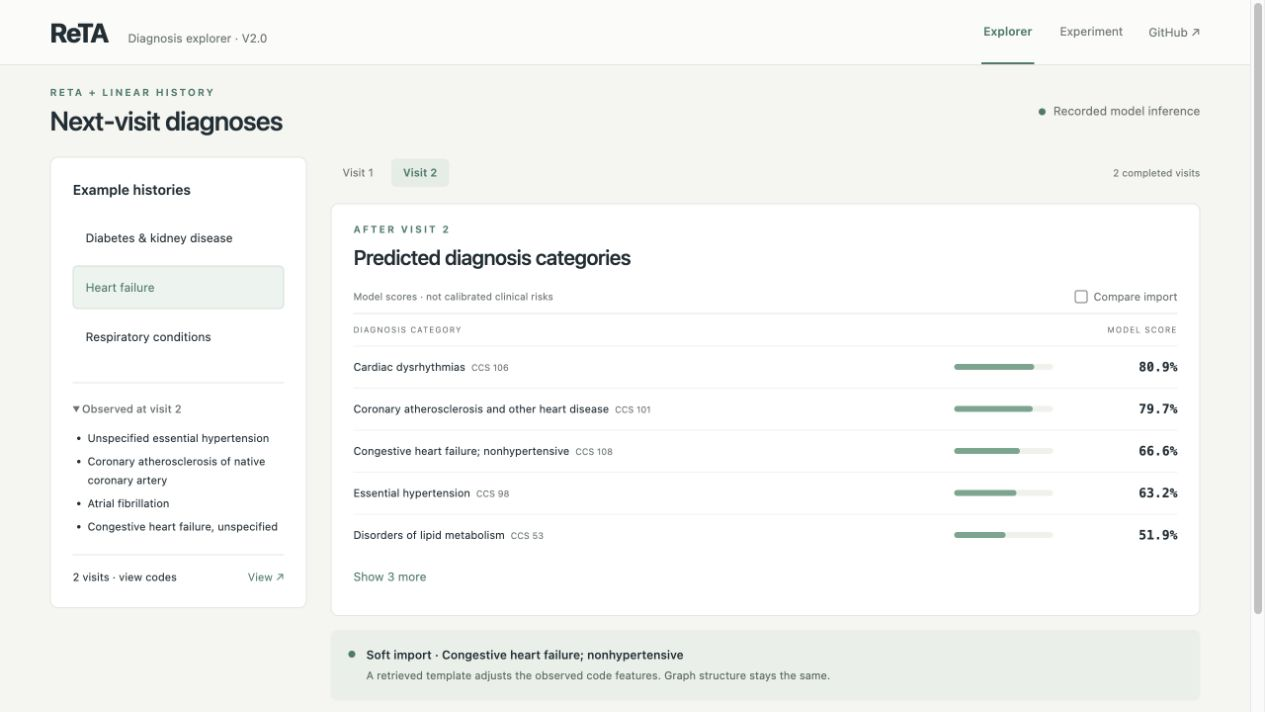
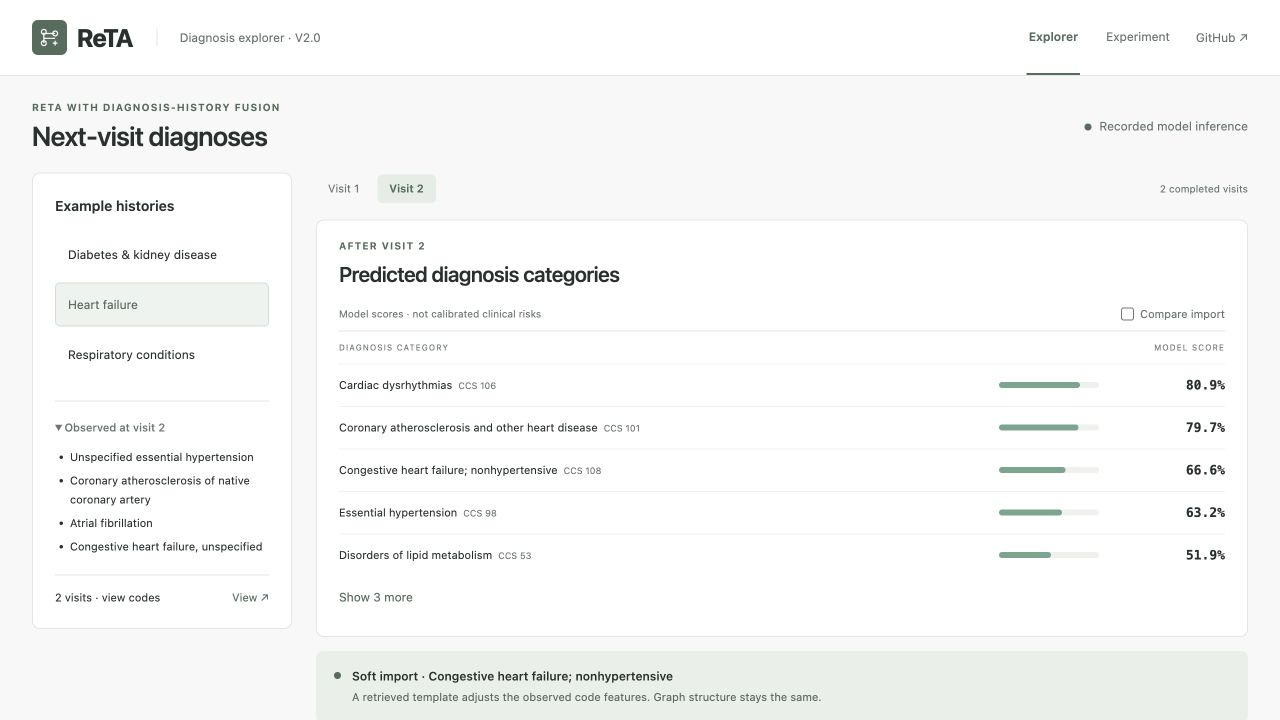
V2.0

diff --git a/reta/demo/static/style.css b/reta/demo/static/style.css
@@ -1,11 +1,11 @@
 :root {
-  --bg: #f5f5f1;
+  --bg: #f7f8f7;
   --card: #fff;
-  --ink: #182f35;
+  --ink: #23312d;
   --muted: #687673;
   --line: #e1e6e1;
-  --accent: #177d6c;
-  --mint: #e9f5ee;
+  --accent: #496e5c;
+  --mint: #edf4ef;
   --navy: #24434d;
 }
 * { box-sizing: border-box; }
@@ -20,17 +20,20 @@ a:hover { text-decoration: underline; }
 .sr-only { position: absolute; left: -10000px; }
 .muted { color: var(--muted); font-size: 11px; }
 .small { font-size: 10px; }
-.eyebrow { color: var(--accent); font-size: 10px; font-weight: 650; letter-spacing: 2px; }
+.eyebrow { color: var(--accent); font-size: 10px; font-weight: 650; letter-spacing: 1.1px; }
 
 /* Navigation and page layout. */
-.topbar { height: 66px; padding: 0 4%; display: flex; align-items: center; justify-content: space-between; border-bottom: 1px solid var(--line); background: #fbfcf9; }
-.brand { color: var(--ink); font-size: 27px; font-weight: 750; letter-spacing: -1.2px; }
-.brand span { color: var(--muted); font-size: 12px; font-weight: 400; letter-spacing: 0; margin-left: 20px; }
+.topbar { height: 76px; padding: 0 32px; display: flex; align-items: center; justify-content: space-between; border-bottom: 1px solid var(--line); background: #fff; }
+.brand { display: flex; align-items: center; gap: 10px; color: var(--ink); font-size: 25px; letter-spacing: -.8px; }
+.brand:hover { text-decoration: none; }
+.brand b { font-weight: 750; }
+.brand-mark { width: 35px; height: 35px; padding: 3px; background: var(--accent); border-radius: 6px; stroke: #fff; stroke-width: 1.5; fill: none; }
+.brand span { color: var(--muted); font-size: 12px; font-weight: 400; letter-spacing: 0; margin-left: 14px; padding-left: 22px; border-left: 1px solid var(--line); }
 .top-right { display: flex; align-self: stretch; gap: 24px; font-size: 12px; }
 .top-right>a { align-self: center; color: var(--muted); }
 .view-tab { border: 0; border-bottom: 2px solid transparent; color: var(--muted); background: transparent; padding: 0 2px; font-size: 12px; }
 .view-tab.active { color: var(--accent); border-bottom-color: var(--accent); font-weight: 600; }
-main { max-width: 1460px; margin: auto; padding: 20px 4%; }
+main { max-width: 1400px; margin: auto; padding: 24px 32px; }
 .intro { display: flex; justify-content: space-between; align-items: center; margin-bottom: 20px; }
 h1 { font-size: 27px; font-weight: 550; letter-spacing: -.7px; line-height: 1.2; margin: 5px 0 0; }
 .status { font-size: 12px; color: var(--muted); }
@@ -140,17 +143,39 @@ input { width: 100%; min-height: 42px; border: 1px solid #dce3dc; border-radius:
 #graph-counts { margin-top: 7px; font-size: 10px; }
 #graph-selection { min-height: 28px; line-height: 1.6; }
 
-/* Aggregate evaluation is kept separate from individual examples. */
-.experiment { display: grid; grid-template-columns: 240px minmax(0,1fr); gap: 36px; padding: 24px; background: var(--card); border-radius: 8px; }
-.experiment h2 { font-size: 23px; font-weight: 500; letter-spacing: -.6px; margin: 6px 0; }
-.experiment p { font-size: 11px; color: var(--muted); line-height: 1.8; margin: 0; }
-.experiment .model-note { margin-top: 12px; color: var(--ink); }
+/* Experiment: cohort, primary results, then the full comparison. */
+.experiment-heading { display: flex; justify-content: space-between; align-items: center; gap: 20px; }
+.experiment-heading h1 { font-size: 26px; font-weight: 620; margin-top: 7px; }
+.experiment-badge { border: 1px solid var(--line); border-radius: 4px; background: #eef2ee; color: #57675e; padding: 5px 9px; font-size: 11px; white-space: nowrap; }
+.cohort-stats { display: grid; grid-template-columns: repeat(4,1fr); gap: 24px; margin: 24px 0 0; padding: 10px 0 20px; border-bottom: 1px solid var(--line); }
+.cohort-stats dt { font-size: 12px; color: var(--muted); }
+.cohort-stats dd { font-size: 31px; line-height: 1.3; font-weight: 600; letter-spacing: -.8px; margin: 7px 0 0; font-variant-numeric: tabular-nums; }
+.result-summary { display: grid; grid-template-columns: 1fr 1.35fr; align-items: center; gap: 30px; padding: 20px 0; border-bottom: 1px solid var(--line); }
+.result-model h2 { font-size: 14px; font-weight: 650; margin: 0 0 7px; }
+.result-model p { color: var(--muted); font-size: 12px; margin: 0; }
+.headline-metrics { display: grid; grid-template-columns: repeat(3,1fr); gap: 24px; }
+.headline-metric span { color: var(--muted); font-size: 11px; }
+.headline-metric strong { display: block; color: var(--accent); font-size: 29px; font-weight: 650; line-height: 1.3; letter-spacing: -.7px; margin-top: 5px; font-variant-numeric: tabular-nums; }
+.comparison-section { margin-top: 25px; }
+.comparison-heading { display: flex; justify-content: space-between; align-items: baseline; gap: 16px; margin-bottom: 15px; }
+.comparison-heading h2 { margin: 0; font-size: 14px; font-weight: 650; }
+.comparison-heading span { font-size: 11px; color: var(--muted); }
 .table-wrap { overflow-x: auto; }
-table { width: 100%; border-collapse: collapse; font-size: 11px; text-align: right; }
-th { font-size: 10px; font-weight: 500; color: var(--muted); padding: 8px 12px; white-space: nowrap; }
+table { width: 100%; border-collapse: collapse; font-size: 12px; text-align: right; font-variant-numeric: tabular-nums; }
+thead { background: #edf1ed; }
+thead th { font-size: 10px; font-weight: 500; color: #59695f; padding: 12px 16px; white-space: nowrap; }
 th:first-child, td:first-child { text-align: left; }
-td { padding: 10px 12px; border-top: 1px solid var(--line); }
-tr.highlight { background: #eaf2e8; color: #226b55; }
+tbody th, td { padding: 13px 16px; border-bottom: 1px solid var(--line); background: #fff; }
+tbody th { font-size: 12px; font-weight: 400; white-space: nowrap; }
+tr.highlight th, tr.highlight td { background: #edf5ef; color: #355e49; font-weight: 600; }
+.model-tag { display: inline-block; font-size: 9px; font-weight: 500; padding: 1px 6px; border: 1px solid #c9dacc; border-radius: 3px; margin-left: 10px; vertical-align: middle; }
+.table-note { font-size: 11px; color: var(--muted); margin: 12px 0 0; }
+.experiment-details { border-top: 1px solid var(--line); margin-top: 24px; }
+.experiment-details>summary { display: flex; justify-content: space-between; align-items: center; list-style: none; font-size: 12px; color: var(--muted); padding: 17px 0; }
+.experiment-details>summary::-webkit-details-marker { display: none; }
+.experiment-details[open]>summary span { transform: rotate(45deg); }
+.experiment-details-body { max-width: 760px; padding: 0 0 18px; font-size: 12px; line-height: 1.8; color: var(--muted); }
+.experiment-details-body p { margin: 0 0 10px; }
 footer { display: flex; justify-content: space-between; gap: 20px; padding-top: 25px; margin-top: 10px; font-size: 10px; color: var(--muted); }
 
 @media(min-width:1400px) {
@@ -163,11 +188,11 @@ footer { display: flex; justify-content: space-between; gap: 20px; padding-top: 
   .panel { padding: 17px; }
   .middle-grid { gap: 12px; }
   .prediction-row { grid-template-columns: minmax(100px,1fr) 70px 100px; gap: 9px; }
-  .experiment { grid-template-columns: 200px minmax(0,1fr); gap: 20px; }
+  .result-summary { grid-template-columns: 1fr 1.5fr; gap: 20px; }
 }
 @media(max-width:760px) {
   main { padding: 22px 16px; }
-  .topbar { height: 62px; }
+  .topbar { height: 64px; padding: 0 16px; }
   .brand span { display: none; }
   .top-right { gap: 16px; }
   .intro { align-items: flex-start; gap: 12px; }
@@ -183,8 +208,19 @@ footer { display: flex; justify-content: space-between; gap: 20px; padding-top: 
   .prediction-heading h2 { font-size: 18px; }
   .prediction-row { padding: 12px 0; }
   .empty-state { min-height: 260px; }
-  .experiment { display: block; padding: 18px; }
-  .table-wrap { margin-top: 18px; }
+  .experiment-heading { align-items: flex-start; }
+  .experiment-heading h1 { font-size: 23px; max-width: 300px; }
+  .experiment-badge { display: none; }
+  .cohort-stats { grid-template-columns: repeat(2,1fr); gap: 24px 20px; margin-top: 22px; padding-bottom: 22px; }
+  .cohort-stats dd { font-size: 29px; }
+  .result-summary { grid-template-columns: 1fr; gap: 22px; padding: 22px 0; }
+  .headline-metrics { gap: 12px; }
+  .headline-metric strong { font-size: 25px; }
+  .comparison-heading span { display: none; }
+  thead th, tbody th, td { padding: 12px; }
+  table { min-width: 650px; }
+  .comparison-section { margin-top: 22px; }
+  .experiment-details { margin-top: 20px; }
   footer { display: block; }
   footer span { display: block; margin-bottom: 7px; }
 }

diff --git a/reta/demo/static/index.html b/reta/demo/static/index.html
@@ -6,7 +6,7 @@
   <link rel="stylesheet" href="./style.css">
 </head>
 <body>
-  <header class="topbar"><a class="brand" href="./">ReTA<span>Diagnosis explorer · V2.0</span></a><nav class="top-right" aria-label="Demo views"><button id="explorer-tab" class="view-tab active" aria-pressed="true">Explorer</button><button id="experiment-tab" class="view-tab" aria-pressed="false" hidden>Experiment</button><a href="https://github.com/ChenC2002/ReTA" aria-label="GitHub repository">GitHub ↗</a></nav></header>
+  <header class="topbar"><a class="brand" href="./"><svg class="brand-mark" viewBox="0 0 36 36" aria-hidden="true"><path d="M11 25V13h14M11 19h14"/><circle cx="11" cy="11" r="3"/><circle cx="11" cy="25" r="3"/><circle cx="25" cy="13" r="3"/><path d="M25 22v6m-3-3h6"/></svg><b>ReTA</b><span>Diagnosis explorer · V2.0</span></a><nav class="top-right" aria-label="Demo views"><button id="explorer-tab" class="view-tab active" aria-pressed="true">Explorer</button><button id="experiment-tab" class="view-tab" aria-pressed="false" hidden>Experiment</button><a href="https://github.com/ChenC2002/ReTA" aria-label="GitHub repository">GitHub ↗</a></nav></header>
   <main>
     <section id="explorer-view">
     <section class="intro"><div><div class="eyebrow" id="model-label">ADAPTIVE KNOWLEDGE IMPORT</div><h1>Next-visit diagnoses</h1></div><span id="connection" class="status">Connecting</span></section>
@@ -48,7 +48,16 @@
       </section>
     </div>
     </section>
-    <section id="experiment" class="experiment" hidden><div><div class="eyebrow">HELD-OUT EVALUATION</div><h2>MIMIC-III</h2><p id="experiment-context"></p><p id="experiment-model" class="model-note" hidden></p></div><div class="table-wrap"><table><thead><tr><th scope="col">Model</th><th scope="col">Macro-AUPRC</th><th scope="col">Micro-AUPRC</th><th scope="col">Micro-F1</th><th scope="col">Acc@20</th></tr></thead><tbody id="metrics"></tbody></table><p class="small muted">Checkpoint and F1 threshold selected on validation. Aggregate test results. Example histories have no known next visit and are separate from this evaluation.</p></div></section>
+    <section id="experiment-view" class="experiment" aria-labelledby="experiment-title" hidden>
+      <div class="experiment-heading"><div><div class="eyebrow">RECORDED EXPERIMENT</div><h1 id="experiment-title">MIMIC-III / Next-visit diagnosis</h1></div><span class="experiment-badge">Held-out evaluation</span></div>
+      <dl id="cohort-stats" class="cohort-stats"></dl>
+      <section class="result-summary" aria-label="Released model results"><div class="result-model"><h2 id="experiment-model"></h2><p id="model-description"></p></div><div id="headline-metrics" class="headline-metrics"></div></section>
+      <section class="comparison-section" aria-labelledby="comparison-title"><div class="comparison-heading"><h2 id="comparison-title">Model comparison</h2><span>Same cohort · same evaluation</span></div>
+        <div class="table-wrap" tabindex="0" role="region" aria-label="Model comparison metrics"><table><thead><tr><th scope="col">Model</th><th scope="col">Macro-AUPRC</th><th scope="col">Micro-AUPRC</th><th scope="col">Micro-F1</th><th scope="col">Acc@20</th></tr></thead><tbody id="metrics"></tbody></table></div>
+        <p class="table-note">Scores are evaluated on held-out patient histories. Higher is better.</p>
+      </section>
+      <details class="experiment-details"><summary>About this experiment <span aria-hidden="true">＋</span></summary><div class="experiment-details-body"><p id="experiment-context"></p><p>Checkpoint and prediction threshold are selected on validation. The history-fusion model combines graph predictions with a diagnosis-history model.</p><p>Example histories illustrate inference; they are separate from this evaluation.</p><a href="https://github.com/ChenC2002/ReTA/blob/main/docs/workflow.md#optional-demo-history-head">Model and evaluation workflow ↗</a></div></details>
+    </section>
     <footer><span>Research use · No patient records shown</span><a href="https://github.com/ChenC2002/ReTA#demo">Download model &amp; run locally ↗</a></footer>
   </main>
   <script src="./app.js" defer></script>

diff --git a/reta/demo/static/app.js b/reta/demo/static/app.js
@@ -270,19 +270,49 @@ function renderExperiment(results) {
   if (!results || !results.metrics) return;
   $('experiment-tab').hidden = false;
   $('experiment-context').textContent = results.context || 'Patient-disjoint evaluation · next-visit CCS diagnosis prediction';
-  if (results.fusion) {
-    $('experiment-model').hidden = false;
-    $('experiment-model').textContent = 'Demo: ReTA + linear history, with the blend selected on validation.';
+  const selected = results.highlighted_model || 'stage2';
+  const scores = results.metrics[selected];
+  const modelNames = {
+    training_prevalence: 'Diagnosis frequency',
+    linear_history: 'Diagnosis-history baseline',
+    stage1: 'ReTA · encoder',
+    stage2: 'ReTA · adaptive knowledge',
+    fusion: 'ReTA · history fusion'
+  };
+  const label = key => modelNames[key] || results.labels?.[key] || key;
+  $('experiment-model').textContent = label(selected);
+  $('model-description').textContent = selected === 'fusion'
+    ? 'Graph predictions with diagnosis-history fusion'
+    : 'Visit-level knowledge augmentation';
+  $('cohort-stats').replaceChildren();
+  for (const [title, value] of [
+    ['Test patients', scores?.num_patients],
+    ['Next-visit predictions', scores?.num_samples],
+    ['Diagnosis categories', scores?.num_labels],
+    ['Knowledge templates', metadata.templates]
+  ]) {
+    if (!Number.isFinite(value)) continue;
+    const stat = node('div');
+    stat.append(node('dt', title), node('dd', value.toLocaleString('en-US')));
+    $('cohort-stats').append(stat);
   }
+  $('headline-metrics').replaceChildren();
+  for (const [key, title] of [['AUPRC_macro', 'Macro-AUPRC'], ['MicroF1', 'Micro-F1'], ['Acc@20', 'Acc@20']]) {
+    if (!Number.isFinite(scores?.[key])) continue;
+    const metric = node('div', undefined, 'headline-metric');
+    metric.append(node('span', title), node('strong', `${(scores[key] * 100).toFixed(2)}%`));
+    $('headline-metrics').append(metric);
+  }
+  $('metrics').replaceChildren();
   for (const [key, value] of Object.entries(results.metrics)) {
-    const row = node('tr', undefined, key === (results.highlighted_model || 'stage2') ? 'highlight' : '');
-    row.append(node('td', results.labels?.[key] || {
-      training_prevalence: 'Diagnosis frequency',
-      linear_history: 'Linear history model',
-      stage1: 'Stage 1',
-      stage2: 'ReTA · Stage 2'
-    } [key] || key));
-    for (const metric of ['AUPRC_macro', 'AUPRC_micro', 'MicroF1', 'Acc@20']) row.append(node('td', `${(value[metric] * 100).toFixed(2)}%`));
+    const row = node('tr', undefined, key === selected ? 'highlight' : '');
+    const name = node('th', label(key));
+    name.scope = 'row';
+    if (key === selected) name.append(node('span', 'Demo', 'model-tag'));
+    row.append(name);
+    for (const metric of ['AUPRC_macro', 'AUPRC_micro', 'MicroF1', 'Acc@20']) {
+      row.append(node('td', Number.isFinite(value[metric]) ? `${(value[metric] * 100).toFixed(2)}%` : '—'));
+    }
     $('metrics').append(row);
   }
 }
@@ -301,7 +331,7 @@ $('show-more').onclick = () => { showAll = !showAll; renderVisit(activeVisit); }
 function showView(view) {
   const experiment = view === 'experiment' && metadata?.results?.metrics;
   $('explorer-view').hidden = Boolean(experiment);
-  $('experiment').hidden = !experiment;
+  $('experiment-view').hidden = !experiment;
   for (const name of ['explorer', 'experiment']) {
     const active = name === (experiment ? 'experiment' : 'explorer');
     $(`${name}-tab`).classList.toggle('active', active);
@@ -344,7 +374,7 @@ $('search').oninput = () => {
 (async () => {
   try {
     metadata = await request('/api/meta');
-    if (metadata.history_fusion) $('model-label').textContent = metadata.prediction_model.toUpperCase();
+    if (metadata.history_fusion) $('model-label').textContent = 'RETA WITH DIAGNOSIS-HISTORY FUSION';
     if (window.matchMedia('(max-width: 760px)').matches) $('observed-details').open = false;
     if (recorded) {
       $('add-visit').hidden = true;

diff --git a/README.md b/README.md
@@ -22,14 +22,15 @@ demo also accepts edited inputs.
 
 | Package | Size | Contents |
 | --- | ---: | --- |
-| [Offline viewer](https://github.com/ChenC2002/ReTA/releases/download/V2.0/reta-demo-offline.zip) | 15.6 KB | Open `index.html`; includes all three recorded examples and evaluation |
+| [Offline viewer](https://github.com/ChenC2002/ReTA/releases/download/V2.0/reta-demo-offline.zip) | 16.9 KB | Open `index.html`; includes all three recorded examples and evaluation |
 | [Complete demo model](https://github.com/ChenC2002/ReTA/releases/download/V2.0/reta-demo-model.zip) | 139.2 MB | Both prediction branches, knowledge resources, configuration, and reference predictions |
 | [Core ReTA model](https://github.com/ChenC2002/ReTA/releases/download/V2.0/reta-core-model.zip) | 129.5 MB | Original graph model and import policy, with the same portable resources |
 | [SHA-256 checksums](https://github.com/ChenC2002/ReTA/releases/download/V2.0/SHA256SUMS) | <1 KB | Verify the downloaded archives |
 
-The demo combines ReTA with a linear diagnosis-history model; the core ReTA
-package is also available. Both include complete checkpoints and cached concept features.
-The package contains no patient records.
+The demo uses **ReTA with diagnosis-history fusion**. The core ReTA model is
+also available separately. Both packages include complete checkpoints and cached
+concept features, with no patient records.
+[View the experiment](https://chenc2002.github.io/ReTA/demo/#experiment) for evaluation details.
 
 <details>
 <summary>Run locally (Python 3.10–3.13)</summary>
@@ -53,32 +54,6 @@ reta demo --bundle /path/to/reta-demo-model
 
 Open `http://127.0.0.1:8765`. CPU inference is sufficient. `--verify` checks
 the package and reproduces all three recorded examples.
-
-</details>
-
-<details>
-<summary>MIMIC-III experiment</summary>
-
-The demo was trained on a **7,494-patient MIMIC-III cohort**, with frozen
-ClinicalBERT concept features and 196 CCS ontology templates. Held-out evaluation
-covers **1,499 patients and 2,518 next-visit predictions**, across 283 labels.
-
-The released demo uses **25% ReTA and 75% linear-history logits**, selected on
-validation. Both branches are fitted on training patients. The table reports the
-core algorithm and this engineering variant separately.
-
-| Model | Macro-AUPRC | Micro-F1 | Acc@20 |
-| --- | ---: | ---: | ---: |
-| Diagnosis frequency | 4.32% | 33.53% | 44.56% |
-| Linear history model | 21.70% | 48.88% | 63.46% |
-| ReTA encoder | 18.64% | 43.04% | 58.16% |
-| ReTA adaptive knowledge | 18.82% | 44.06% | 59.05% |
-| ReTA + linear history | **22.32%** | **49.65%** | **64.14%** |
-
-These are results of the released demo experiment: a patient-disjoint split,
-seed 42, and validation-selected checkpoint and F1 threshold. The table evaluates held-out
-patient trajectories; demo histories illustrate inference. See the
-[history-head workflow](docs/workflow.md#optional-demo-history-head) to fit the optional demo variant.
 
 </details>
 

diff --git a/docs/demo.md b/docs/demo.md
@@ -7,9 +7,9 @@ shows example predictions and optional knowledge details; the Experiment view
 contains aggregate held-out metrics. New inputs use the local
 model, while the online viewer displays recorded inference.
 
-The released demo combines ReTA with a frozen linear diagnosis-history head.
-A validation-selected blend of their logits supplies both the final scores and
-the before/after import comparison. The history head uses only observed visits;
+The released demo uses **ReTA with diagnosis-history fusion**. The combination
+is selected on validation and supplies both the final scores and the before/after
+import comparison. The history head uses only observed visits;
 its weights and vocabulary contract are included in the complete checkpoint.
 
 ## Run the complete checkpoint
